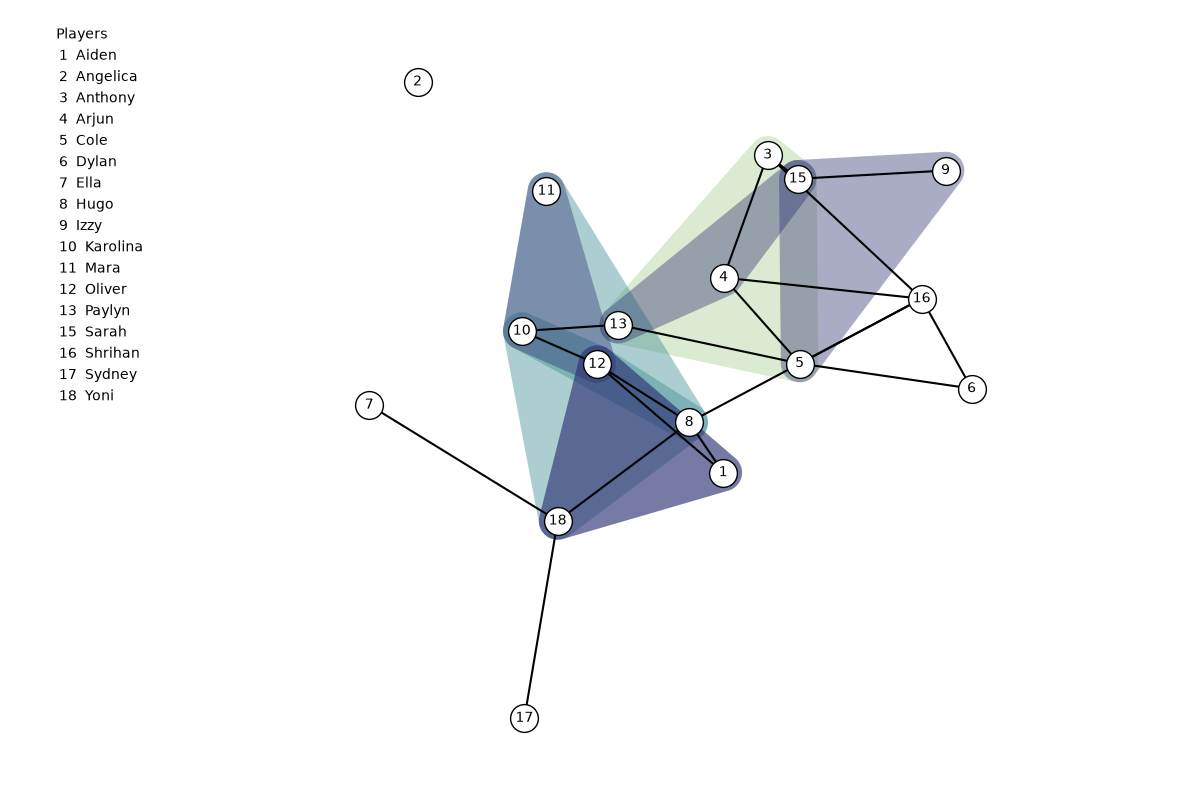
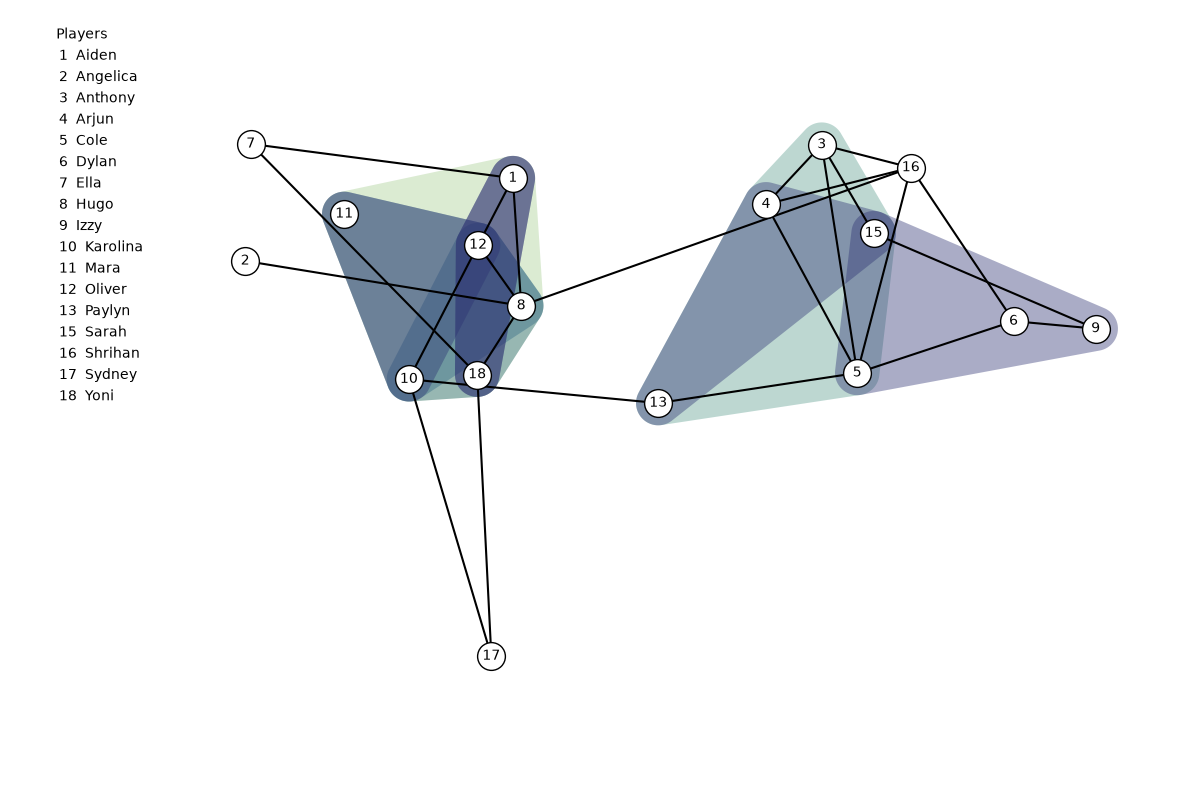
Finalized round 2 data

diff --git a/alliance_data_editor.py b/alliance_data_editor.py
@@ -20,6 +20,7 @@ class AllianceDataEditor:
             f"{edge["attrs"]["name"]}: {", ".join(self.players_in_alliance(edge["edge"]))}"
             for edge in self.data["edges"]
         }
+        alliance_chats = sorted(alliance_chats)
         print("\n".join(alliance_chats))
 
     def players_in_alliance(self, alliance_id):
